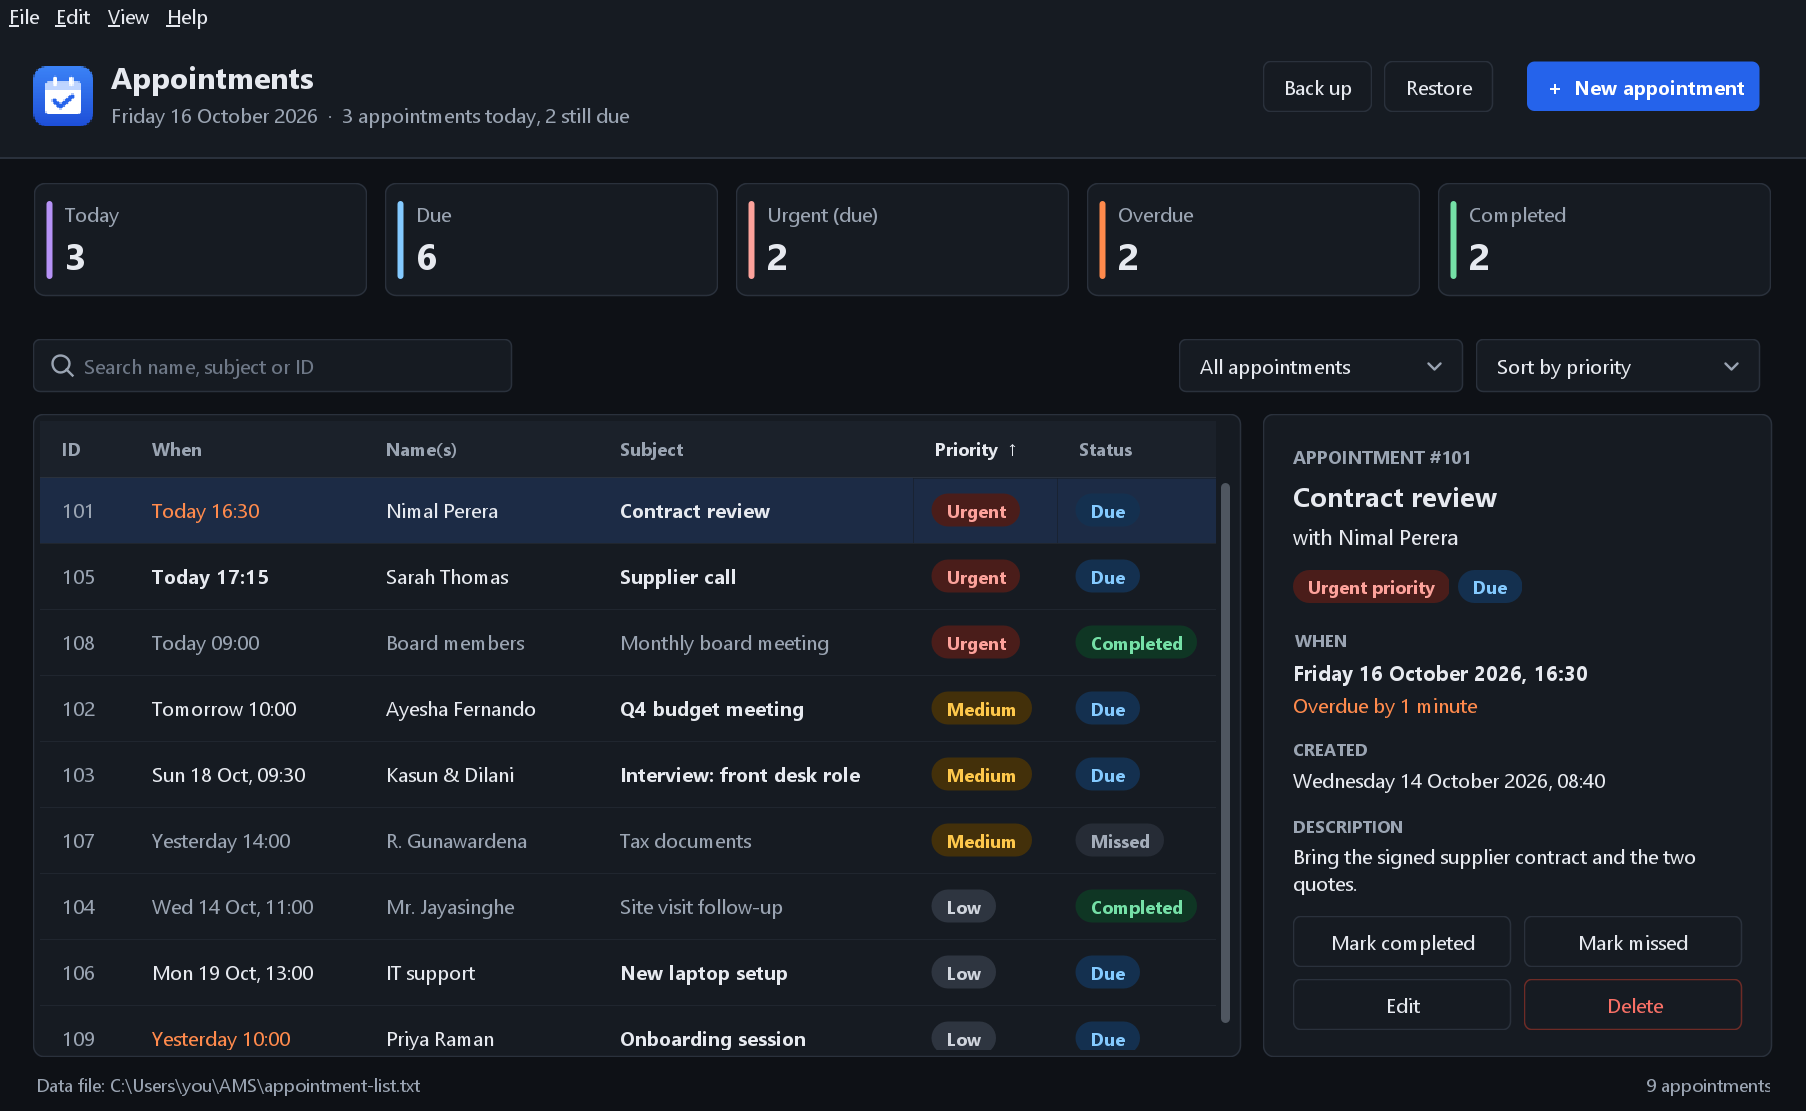
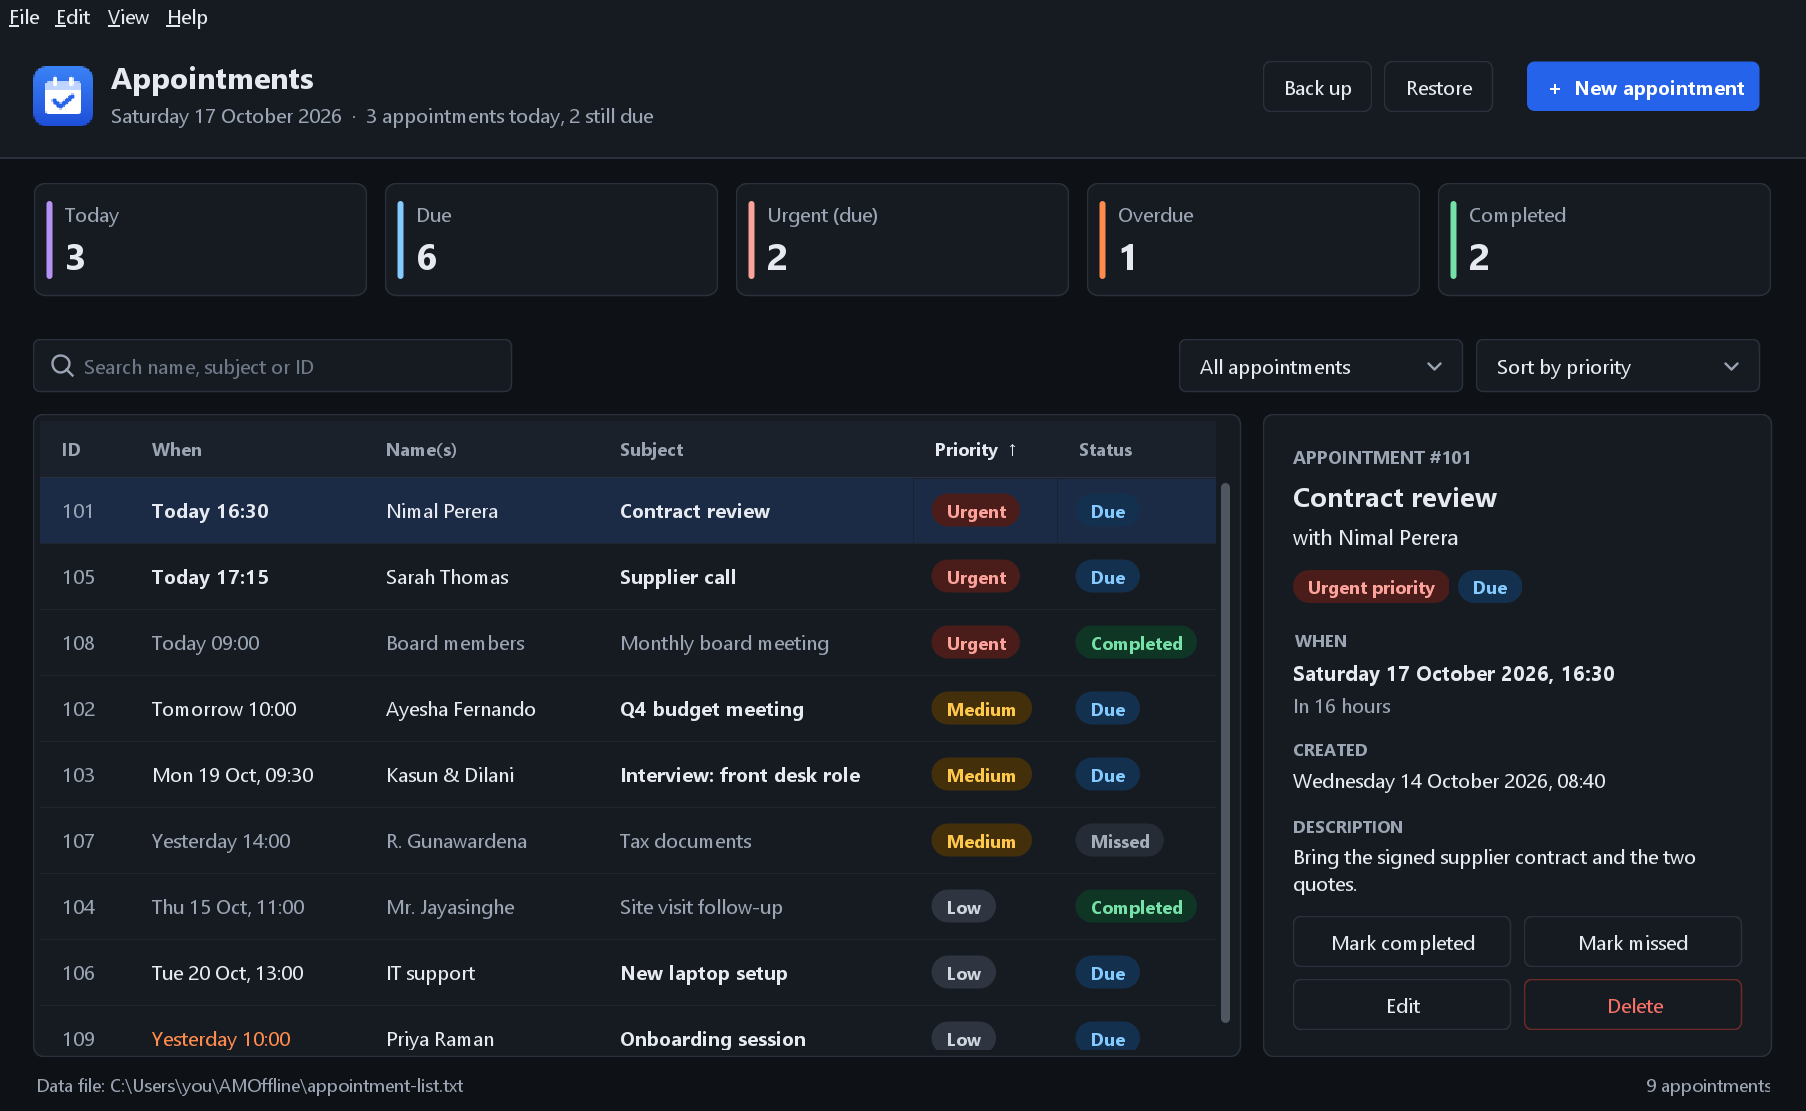
Show the AMOffline data folder in the website screenshots
The screenshot tool still labelled the data file C:\Users\you\AMS\...
Fix the label and re-render the four website screenshots.

Built and checked on Windows with Temurin 21.0.12.1: SmokeTest 54/54,
release build, and install/uninstall into temp folders.

diff --git a/AMS/packaging/tools/Screenshot.java b/AMS/packaging/tools/Screenshot.java
@@ -82,7 +82,7 @@ public class Screenshot {
     private static void hidePath(Container container) {
         for (Component c : container.getComponents()) {
             if (c instanceof JLabel && ((JLabel) c).getText() != null && ((JLabel) c).getText().startsWith("Data file:")) {
-                ((JLabel) c).setText("Data file: C:\\Users\\you\\AMS\\appointment-list.txt");
+                ((JLabel) c).setText("Data file: C:\\Users\\you\\AMOffline\\appointment-list.txt");
             } else if (c instanceof Container) {
                 hidePath((Container) c);
             }
